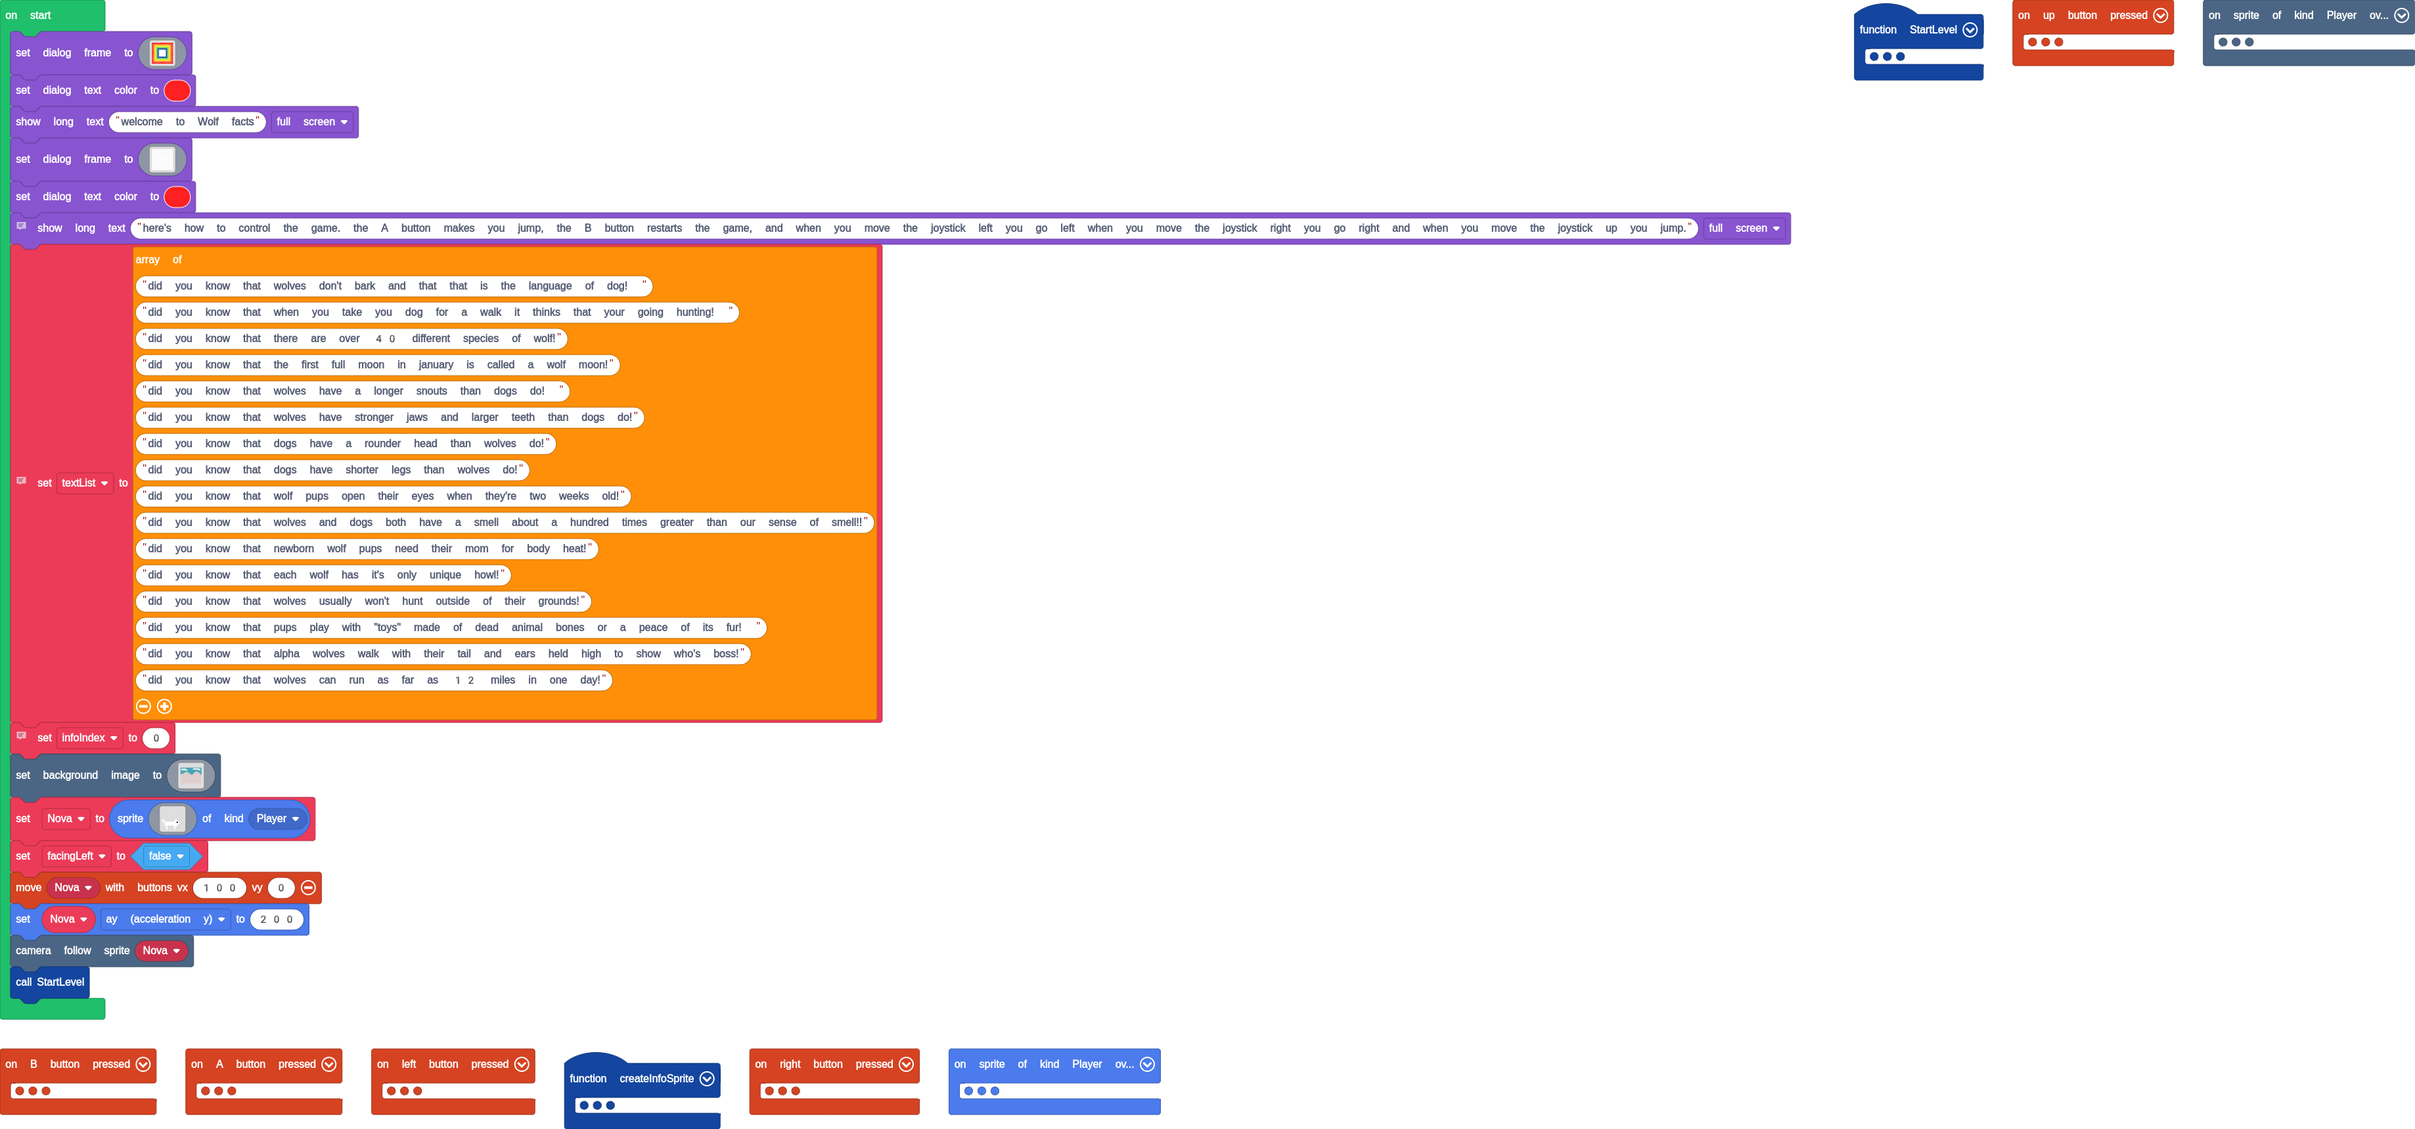
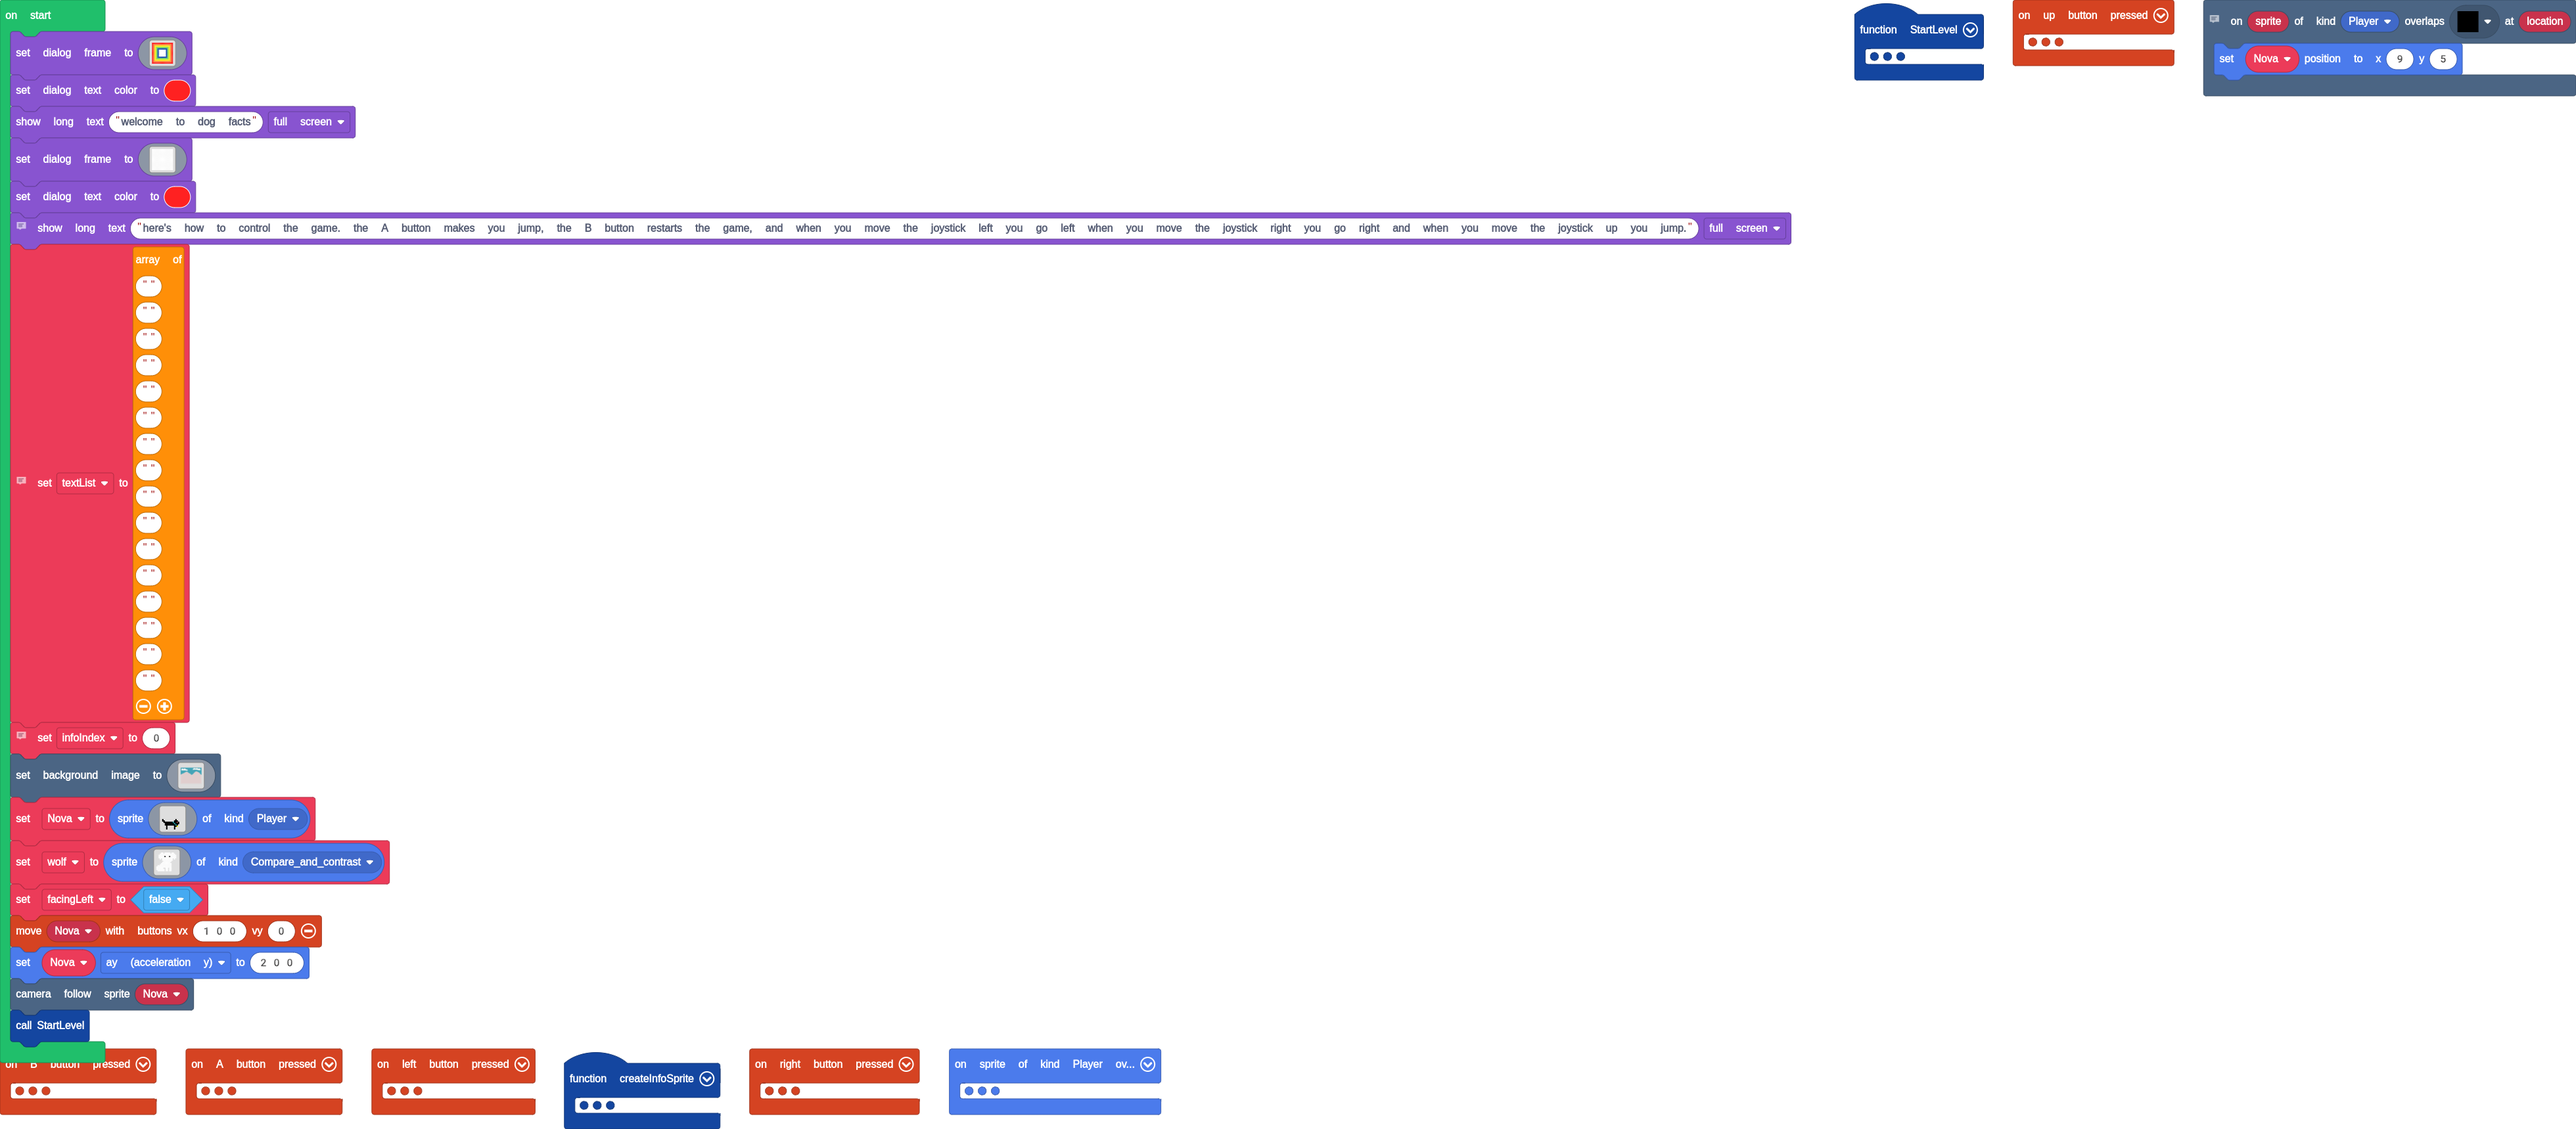
Update pxt.json, main.blocks, main.ts, images.g.jres, images.g.ts

Changed region(s): [[0.0, 0.0308, 0.4962, 1.0], [0.7133, 0.0, 1.0, 0.0925], [0.4652, 0.185, 0.7443, 0.2158]]

diff --git a/main.ts b/main.ts
@@ -3,6 +3,7 @@ namespace SpriteKind {
     export const Cat = SpriteKind.create()
     export const taco = SpriteKind.create()
     export const info = SpriteKind.create()
+    export const Compare_and_contrast = SpriteKind.create()
 }
 controller.up.onEvent(ControllerButtonEvent.Pressed, function () {
     if (Nova.vy == 0) {
@@ -91,7 +92,7 @@ game.setDialogFrame(img`
     2 2 2 2 2 2 2 2 2 2 2 2 2 2 2 
     `)
 game.setDialogTextColor(2)
-game.showLongText("welcome to Wolf facts", DialogLayout.Full)
+game.showLongText("welcome to dog facts", DialogLayout.Full)
 game.setDialogFrame(img`
     1 1 1 1 1 1 1 1 1 1 1 1 1 1 1 
     1 1 1 1 1 1 1 1 1 1 1 1 1 1 1 
@@ -114,27 +115,28 @@ game.setDialogTextColor(2)
 game.showLongText("here's how to control the game. the A button makes you jump, the B button restarts the game, and when you move the joystick left you go left when you move the joystick right you go right and when you move the joystick up you jump.", DialogLayout.Full)
 // Define an array of strings.  There is one value for each fact.  There should be the same number of info blocks on the tile map as there are in this array.
 textList = [
-"did you know that wolves don't bark and that that is the language of dog! ",
-"did you know that when you take you dog for a walk it thinks that your going hunting! ",
-"did you know that there are over 40 different species of wolf!",
-"did you know that the first full moon in january is called a wolf moon!",
-"did you know that wolves have a longer snouts than dogs do! ",
-"did you know that wolves have stronger jaws and larger teeth than dogs do!",
-"did you know that dogs have a rounder head than wolves do!",
-"did you know that dogs have shorter legs than wolves do!",
-"did you know that wolf pups open their eyes when they're two weeks old!",
-"did you know that wolves and dogs both have a smell about a hundred times greater than our sense of smell!!",
-"did you know that newborn wolf pups need their mom for body heat!",
-"did you know that each wolf has it's only unique howl!",
-"did you know that wolves usually won't hunt outside of their grounds!",
-"did you know that pups play with \"toys\" made of dead animal bones or a peace of its fur! ",
-"did you know that alpha wolves walk with their tail and ears held high to show who's boss!",
-"did you know that wolves can run as far as 12 miles in one day!"
+"",
+"",
+"",
+"",
+"",
+"",
+"",
+"",
+"",
+"",
+"",
+"",
+"",
+"",
+"",
+""
 ]
 // Keep track of which info string from textList should be displayed.  Starts counting at zero.
 infoIndex = 0
 scene.setBackgroundImage(assets.image`background image`)
 Nova = sprites.create(assets.image`Nova`, SpriteKind.Player)
+let wolf = sprites.create(assets.image`wolf`, SpriteKind.Compare_and_contrast)
 facingLeft = false
 controller.moveSprite(Nova, 100, 0)
 Nova.ay = 200

diff --git a/images.g.ts b/images.g.ts
@@ -3,25 +3,6 @@ namespace myImages {
 
     helpers._registerFactory("image", function(name: string) {
         switch(helpers.stringTrim(name)) {
-            case "image4":
-            case "Nova":return img`
-. . . . . . . . . . . . . . . . 
-. . . . . . . . . . . . . . . . 
-. . . . . . . . . . . . . . . . 
-. . . . . . . . . . . . . . . . 
-. . . . . . . . . . . . . . . . 
-. . . . . . . . . . . . . . . . 
-. . . . . . . . . . . . . . . . 
-. . . . . . . . . . . . . . . . 
-1 . . . . . . . . . 1 . . . . . 
-1 1 . . . . . . . 1 1 1 . . . . 
-. 1 1 1 1 1 1 1 1 1 1 f 1 . . . 
-. . 1 1 1 1 1 1 1 1 1 1 1 . . . 
-. . 1 1 1 1 1 1 1 1 1 1 . . . . 
-. . . 1 . . . . . 1 1 . . . . . 
-. . . 1 . . . . . 1 . . . . . . 
-. . . 1 . . . . . 1 . . . . . . 
-`;
             case "image7":
             case "background image":return img`
 6666666666666666666666666666666666666666666666666666666666666666666666666666666666666666666666666666666666666666666666666666666666666666666666666666666666666666
@@ -197,6 +178,44 @@ f 7 7 f 7 7 7 7 7 7 f f f 7 7 f
 1 1 1 1 1 1 1 1 1 1 1 1 1 1 1 
 1 1 1 1 1 1 1 1 1 1 1 1 1 1 1 
 1 1 1 1 1 1 1 1 1 1 1 1 1 1 1 
+`;
+            case "image4":
+            case "Nova":return img`
+. . . . . . . . . . . . . . . . 
+. . . . . . . . . . . . . . . . 
+. . . . . . . . . . . . . . . . 
+. . . . . . . . . . . . . . . . 
+. . . . . . . . . . . . . . . . 
+. . . . . . . . . . . . . . . . 
+. . . . . . . . . . . . . . . . 
+. . . . . . . . . . . . . . . . 
+f . . . . . . . . . f . . . . . 
+f f . . . . . . . f f f . . . . 
+. f f f f f f f 6 f f e f . . . 
+. . f f f f f f f 6 f f f . . . 
+. . f f f f f f f f 6 f . . . . 
+. . . f . . . . . f f 5 . . . . 
+. . . f . . . . . f . . . . . . 
+. . . f . . . . . f . . . . . . 
+`;
+            case "image5":
+            case "wolf":return img`
+. . . . 1 1 . 1 1 1 1 1 . 1 1 . . . 
+. . . 1 1 1 1 1 1 1 1 1 1 1 1 1 . . 
+. . 1 1 1 1 1 1 1 1 1 1 1 1 1 1 1 . 
+. . 1 1 1 1 1 f 1 1 1 f 1 1 1 1 1 . 
+. . 1 1 1 1 1 1 1 1 1 1 1 1 1 1 1 . 
+. . . 1 . 1 1 1 1 1 1 1 1 1 . 1 . . 
+. . . . . 1 1 1 1 1 1 1 1 1 . . . . 
+. . . . . . 1 1 1 1 1 1 1 . . . . . 
+. . . . . 1 1 1 1 1 1 1 . . . . . . 
+. . . . 1 1 1 1 1 1 1 1 1 . . . . . 
+. . . 1 1 1 1 1 1 1 1 1 1 . . . . . 
+. 1 1 1 1 1 1 1 1 1 1 1 1 . . . . . 
+1 1 1 1 1 1 1 1 1 1 1 1 1 . . . . . 
+1 1 1 1 1 1 . . 1 1 . 1 1 . . . . . 
+1 1 1 1 1 1 1 . 1 1 . 1 1 . . . . . 
+. 1 1 1 1 1 1 . 1 1 . 1 1 . . . . . 
 `;
         }
         return null;
